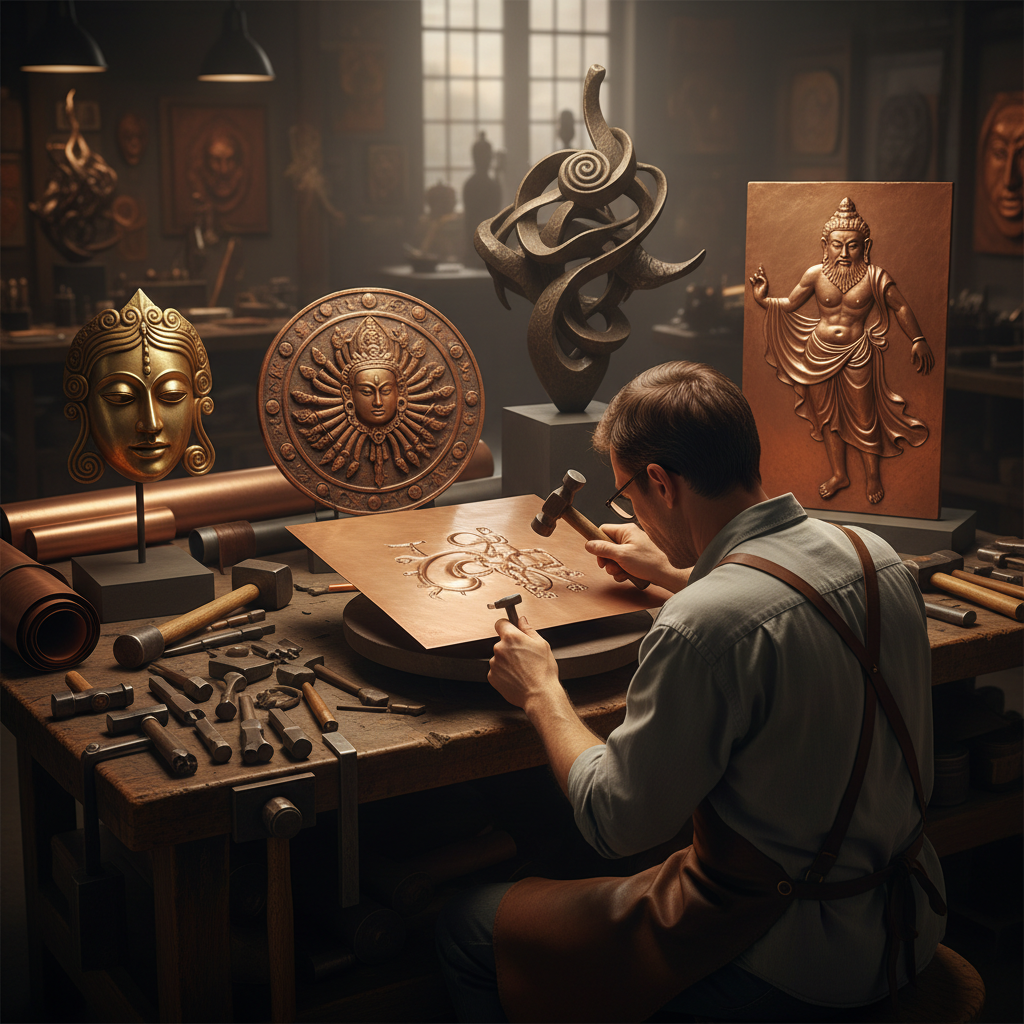
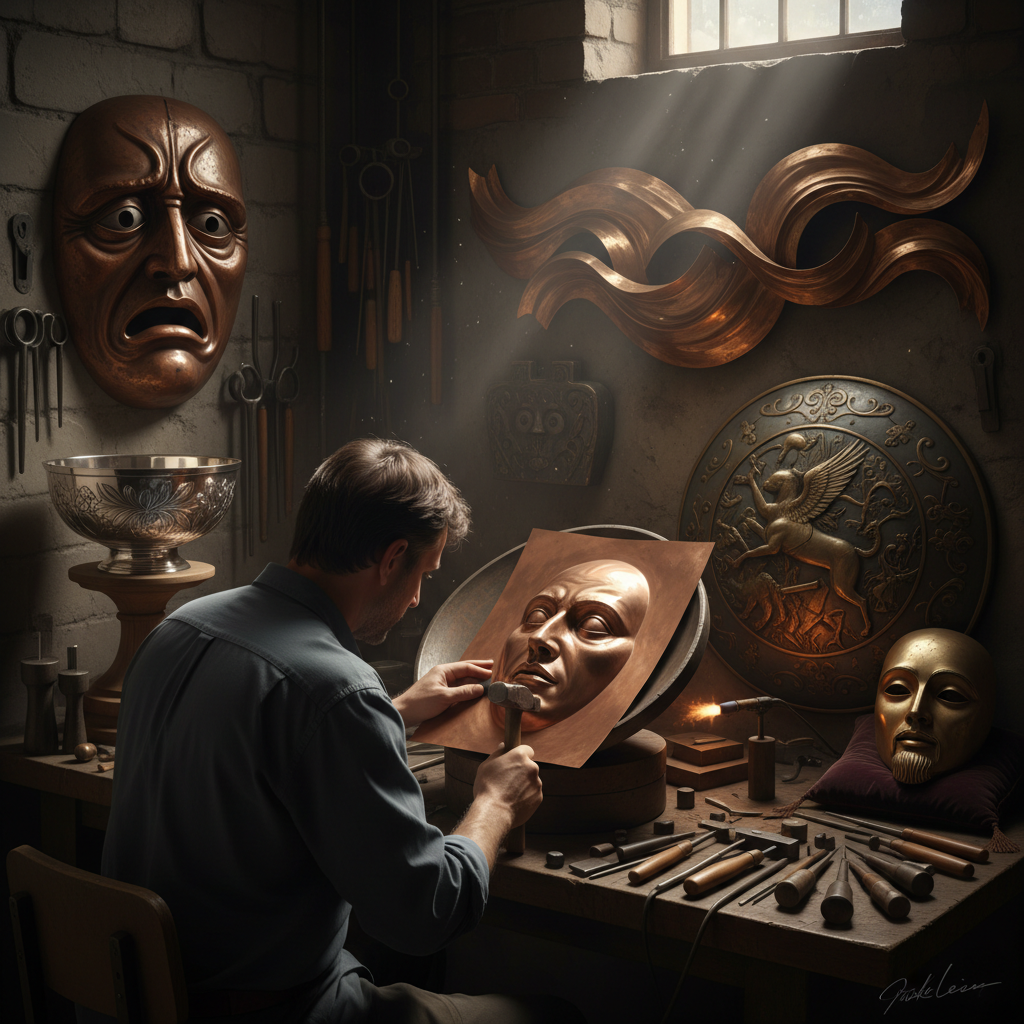
Add 3 art styles: Mosaic Gold, Repoussé, Champlevé - with AI concept images

diff --git a/11-millennium-nostalgia/repousse.md b/11-millennium-nostalgia/repousse.md
@@ -1,70 +1,70 @@
-# Repoussé 锤揲工艺
+# Repoussé 锤揲
 
-> "Repoussé is sculpture from the inside out — the metalsmith pushes form from behind, raising mountains and valleys in a thin sheet of metal with nothing but hammer and will." — Unknown
+> "Repoussé is drawing with a hammer — the metalsmith works from behind, pushing the sheet into swelling forms that catch the light like frozen waves, then refines from the front with chasing tools until every detail sings." — Unknown
 
 ## 概述
 
-锤揲工艺（Repoussé）是从金属板的背面用锤子和各种形状的冲头（punches）将金属向外推出，形成浮雕图案的金属成形技法。"Repoussé"源自法语"repousser"（推回）。与之配合的是"chasing"（正面追纹）——从金属板的正面用工具精修细节和轮廓。Repoussé和chasing通常结合使用：先从背面推出大的形体，再从正面追纹细节。这种技法可以在薄金属板上创造出极其精细的三维浮雕效果——从古代的黄金面具到自由女神像的铜皮，都是锤揲工艺的杰作。
+锤揲（Repoussé，法语意为"推回"）是从金属板的背面用锤子和各种形状的冲头（punches）将金属向外推出，形成凸起的浮雕图案的工艺。Repoussé通常与Chasing（錾刻，从正面精修细节）配合使用——先用Repoussé从背面推出大致形态，再用Chasing从正面添加细节和纹理。
 
-锤揲工艺的哲学在于：从内向外——不是从外部雕刻去除材料，而是从内部推出形体，让金属在锤击中获得生命。
+Repoussé是人类最古老的金属成型技法之一——不需要铸造或焊接，仅通过锤打就能将平面的金属板变成立体的浮雕或器皿。这种技法可以应用于各种延展性好的金属：金、银、铜、青铜、铁等。Repoussé的代表作品包括：自由女神像的铜皮外壳、古代金面具、装饰性盾牌、宗教器物等。
 
 ## 核心特征
 
 | 特征 | 描述 |
 |------|------|
-| 背面 | 从背面推出形体 |
-| 锤击 | 锤子和冲头成形 |
-| 浮雕 | 创造浮雕效果 |
-| 薄板 | 在薄金属板上操作 |
-| 追纹 | 正面追纹精修 |
-| 立体 | 三维的立体效果 |
+| 背面 | 从背面锤打推出 |
+| 浮雕 | 形成浮雕效果 |
+| 锤打 | 使用锤子和冲头 |
+| 古老 | 极其古老的技法 |
+| 立体 | 平面变立体 |
+| 配合 | 与Chasing配合 |
 
 ## 视觉特征
 
-- **浮雕**：精美的浮雕效果
-- **立体**：三维的形体感
-- **金属**：金属的光泽和质感
-- **流动**：流动的形态
-- **细节**：精细的表面细节
-- **力量**：锤击的力量感
+- **浮雕**：高浮雕的立体感
+- **流畅**：流畅的曲面
+- **光影**：丰富的光影变化
+- **金属**：金属的质感
+- **大型**：可制作大型作品
+- **动感**：动态的形态
 
 ## 代表作品
 
 | 作品 | 艺术家 | 年代 | 意义 |
 |------|--------|------|------|
-| *Mask of Agamemnon* | 匿名 | 公元前1550年 | 迈锡尼金面具 |
-| *Statue of Liberty skin* | Frédéric Bartholdi | 1886 | 自由女神像铜皮 |
-| *Benvenuto Cellini works* | Cellini | 16世纪 | 文艺复兴金属艺术 |
-| *Tibetan repoussé* | 匿名 | 传统 | 藏传佛教金属艺术 |
-| *Contemporary repoussé* | Various | 当代 | 当代锤揲艺术 |
+| *Mask of Agamemnon* | 匿名 | 公元前16世纪 | 阿伽门农金面具 |
+| *Statue of Liberty skin* | Bartholdi | 1886 | 自由女神像铜皮 |
+| *Gundestrup Cauldron* | 匿名 | 公元前1世纪 | 贡德斯特鲁普大锅 |
+| *Indian repoussé deities* | 匿名 | 传统 | 印度锤揲神像 |
+| *Contemporary repoussé art* | Various | 当代 | 当代锤揲艺术 |
 
 ## 历史时间线
 
 | 时期 | 事件 |
 |------|------|
-| 公元前3000年 | 美索不达米亚的早期锤揲 |
-| 古希腊 | 希腊金属浮雕 |
-| 古罗马 | 罗马银器锤揲 |
-| 中世纪 | 教堂金属装饰 |
-| 文艺复兴 | Cellini的金属艺术 |
-| 当代 | 当代锤揲工艺的复兴 |
+| 公元前3000年 | 最早的锤揲金属制品 |
+| 古埃及 | 锤揲金面具和器物 |
+| 古希腊 | 锤揲青铜盾牌和盔甲 |
+| 中世纪 | 锤揲宗教器物 |
+| 文艺复兴 | 锤揲装饰艺术的繁荣 |
+| 当代 | 锤揲作为当代金属艺术 |
 
 ## 中国语境
 
-锤揲工艺在中国有悠久的传统——中国古代的金银器制作大量使用锤揲技法。唐代的金银器（如何家村窖藏出土的金银器）展现了极高的锤揲工艺水平。藏传佛教的金属佛像和法器也广泛使用锤揲技法——西藏和尼泊尔的金属工匠用锤揲创造精美的佛像浮雕。中国的铜器制作传统中，"打铜"（锤击铜板成形）是重要的技法。当代中国的金属工艺家继续传承锤揲技法，将其应用于当代艺术创作和高端定制。
+锤揲在中国有着悠久的传统——中国古代的金银器制作中大量使用锤揲技法。中国的锤揲工艺被称为"锤鍱"或"打作"——从商周时期的青铜器到唐代的金银器，锤揲都是核心技法之一。中国传统的铜器、银器制作中，锤揲是基本功。当代中国的一些金属工艺大师仍在传承锤揲技法——如云南的银器锤揲、西藏的铜器锤揲等。一些地方的锤揲技艺被列为非物质文化遗产。
 
 ## AI生成概念图
 
-![Repoussé 锤揲工艺概念图](../assets/artworks/repousse/repousse-concept-01.png)
+![Repoussé 锤揲概念图](../assets/artworks/repousse/repousse-concept-01.png)
 
 ## 与其他风格的关系
 
-- **Chasing** → 追纹（配合技法）
-- **Metalwork** → 金属工艺
-- **Sculpture** → 雕塑
-- **Embossing** → 压花
+- **Chasing** → 錾刻
+- **Raising** → 起形
+- **Embossing** → 压印
+- **Metal Sculpture** → 金属雕塑
 - **Silversmithing** → 银器制作
-- **Relief** → 浮雕
+- **Coppersmithing** → 铜器制作
 
 ---
 

diff --git a/11-millennium-nostalgia/champleve.md b/11-millennium-nostalgia/champleve.md
@@ -1,71 +1,70 @@
-# Champlevé 凹雕珐琅
+# Champlevé 凹雕填珐琅
 
-> "Champlevé is sculpture in reverse — carving absence to be filled with color." — Unknown
+> "Champlevé is painting with fire in carved fields — the engraver cuts troughs into metal, fills them with powdered glass, and the kiln fuses color permanently into the body of the work." — Unknown
 
 ## 概述
 
-凹雕珐琅（Champlevé）是一种将金属表面挖出凹槽，然后填入珐琅釉料并烧制的装饰工艺。与掐丝珐琅（Cloisonné）用金属丝围出区域不同，凹雕珐琅直接在金属基底上雕刻或蚀刻出图案的凹陷部分，再填入彩色玻璃粉末烧制。这种技法在中世纪欧洲达到巅峰，特别是在法国利摩日和莱茵河流域，创造了大量宗教艺术杰作。
+凹雕填珐琅（Champlevé，法语意为"凸起的田野"）是一种珐琅工艺——在金属基体（通常是铜或青铜）上雕刻或蚀刻出凹槽，然后将珐琅粉（磨碎的彩色玻璃）填入凹槽中，经过高温烧制使珐琅熔融并与金属结合。冷却后，珐琅表面与金属表面齐平，形成色彩鲜艳的图案。
 
-凹雕珐琅的独特之处在于：金属本身既是结构也是图案——未被挖去的部分形成了设计的线条和边界。
+Champlevé与Cloisonné（掐丝珐琅/景泰蓝）的区别在于：Cloisonné用金属丝围出图案区域，而Champlevé直接在金属基体上挖出凹槽。Champlevé的金属线条（未被挖去的部分）通常比Cloisonné的金属丝更粗、更有力。Champlevé在中世纪欧洲极为流行——特别是在利摩日（Limoges）地区，产生了大量精美的宗教器物。
 
 ## 核心特征
 
 | 特征 | 描述 |
 |------|------|
-| 凹雕 | 在金属上雕出凹槽 |
-| 填充 | 凹槽中填入珐琅 |
-| 金属线 | 保留的金属形成线条 |
-| 烧制 | 高温烧制固化 |
-| 厚重 | 比掐丝珐琅更厚重 |
-| 耐久 | 极其耐久的装饰 |
+| 凹槽 | 在金属上雕刻凹槽 |
+| 填充 | 填入珐琅粉 |
+| 烧制 | 高温烧制融合 |
+| 色彩 | 鲜艳的珐琅色彩 |
+| 耐久 | 极其耐久 |
+| 中世纪 | 中世纪欧洲的代表工艺 |
 
 ## 视觉特征
 
-- **金属线**：宽厚的金属保留线条
-- **色块**：大面积的珐琅色块
-- **厚重**：厚实的金属质感
-- **对比**：金属与珐琅的对比
-- **平面**：打磨后的平滑表面
-- **中世纪**：典型的中世纪美学
+- **色彩**：鲜艳的珐琅色彩
+- **金属**：金属线条的框架
+- **平滑**：珐琅与金属齐平
+- **对比**：色彩与金属的对比
+- **图案**：几何或图形图案
+- **光泽**：珐琅的玻璃光泽
 
 ## 代表作品
 
 | 作品 | 艺术家 | 年代 | 意义 |
 |------|--------|------|------|
-| *Stavelot Triptych* | 匿名 | 约1156 | 莫桑河谷杰作 |
-| *Limoges reliquaries* | 匿名 | 12-13世纪 | 利摩日凹雕珐琅 |
-| *Becket Casket* | 匿名 | 约1180 | 中世纪珐琅圣物箱 |
-| *Rhine Valley works* | 匿名 | 12世纪 | 莱茵河谷传统 |
-| *Celtic champlevé* | 匿名 | 罗马-凯尔特 | 早期凯尔特珐琅 |
+| *Limoges enamels* | 利摩日工匠 | 12-13世纪 | 利摩日珐琅 |
+| *Stavelot Triptych* | 匿名 | 1156-58 | 斯塔夫洛三联画 |
+| *Celtic champlevé brooches* | 匿名 | 中世纪 | 凯尔特珐琅胸针 |
+| *Romanesque reliquaries* | 匿名 | 罗马式时期 | 罗马式圣物箱 |
+| *Contemporary champlevé* | Various | 当代 | 当代凹雕填珐琅 |
 
 ## 历史时间线
 
 | 时期 | 事件 |
 |------|------|
-| 凯尔特时期 | 早期的凹雕珐琅 |
-| 罗马时期 | 罗马-不列颠的珐琅 |
-| 11-13世纪 | 中世纪欧洲的黄金时代 |
-| 12世纪 | 利摩日成为主要中心 |
-| 13世纪后 | 逐渐被掐丝珐琅取代 |
-| 19世纪 | 哥特复兴中的重新关注 |
-| 当代 | 作为传统工艺的传承 |
+| 古代 | 凯尔特人的早期Champlevé |
+| 罗马时期 | 罗马帝国的Champlevé |
+| 中世纪 | 利摩日Champlevé的鼎盛 |
+| 12-13世纪 | 莱茵河流域的Champlevé |
+| 文艺复兴 | 绘画珐琅取代Champlevé |
+| 当代 | Champlevé在当代首饰中的复兴 |
 
 ## 中国语境
 
-凹雕珐琅在中国称为"錾胎珐琅"——与景泰蓝（掐丝珐琅）并列为中国珐琅工艺的主要类型。錾胎珐琅在清代宫廷中有一定发展，但不如景泰蓝普及。中国的錾胎珐琅多用于宫廷器物，工艺精湛但存世量较少。当代中国的珐琅工艺师仍在传承这一技法。
+凹雕填珐琅在中国的珐琅工艺体系中有其对应——中国传统的"錾胎珐琅"与Champlevé技法相同。中国的錾胎珐琅历史悠久，但不如景泰蓝（掐丝珐琅）知名。中国的一些传统金属工艺中使用类似Champlevé的技法——在铜器上錾刻凹槽后填入珐琅。当代中国的珐琅艺术家和首饰设计师也使用Champlevé技法创作。中国的珐琅工艺教育中，Champlevé是重要的教学内容之一。
 
 ## AI生成概念图
 
-![Champlevé 凹雕珐琅概念图](../assets/artworks/champleve/champleve-concept-01.png)
+![Champlevé 凹雕填珐琅概念图](../assets/artworks/champleve/champleve-concept-01.png)
 
 ## 与其他风格的关系
 
-- **Enamel** → 珐琅工艺的一种技法
-- **Cloisonné** → 掐丝珐琅是对应技法
+- **Cloisonné** → 掐丝珐琅/景泰蓝
 - **Plique-à-jour** → 透光珐琅
-- **Medieval Art** → 中世纪宗教艺术
-- **Metalwork** → 金属雕刻工艺
-- **Celtic Art** → 凯尔特装饰传统
+- **Basse-taille** → 浅浮雕珐琅
+- **Enameling** → 珐琅工艺
+- **Metal Engraving** → 金属雕刻
+- **Limoges Enamel** → 利摩日珐琅
 
 ---
 

diff --git a/11-millennium-nostalgia/mosaic-gold.md b/11-millennium-nostalgia/mosaic-gold.md
@@ -1,0 +1,71 @@
+# Mosaic Gold 金色马赛克
+
+> "Mosaic gold is illusion perfected — tin disulfide crystals shimmer with the warmth of true gold, offering artists and craftsmen a golden glow without the golden price." — Unknown
+
+## 概述
+
+金色马赛克（Mosaic Gold）有两层含义：一是指二硫化锡（tin disulfide, SnS₂）——一种金黄色的晶体粉末，历史上被用作金粉的廉价替代品来装饰书籍、画框和工艺品；二是指使用金色材料（金箔、金色玻璃片、金色石材等）制作的马赛克镶嵌艺术。
+
+作为材料的Mosaic Gold（二硫化锡）在中世纪和文艺复兴时期被广泛使用——它被称为"aurum musivum"（马赛克金），因为它最初被用于装饰马赛克作品。作为艺术形式的金色马赛克则是拜占庭艺术的标志——拜占庭教堂中大量使用金色玻璃马赛克（gold tesserae）来创造神圣的金色背景，象征天堂的光辉。
+
+## 核心特征
+
+| 特征 | 描述 |
+|------|------|
+| 金色 | 金色的视觉效果 |
+| 替代 | 金的廉价替代 |
+| 马赛克 | 镶嵌艺术形式 |
+| 拜占庭 | 拜占庭艺术标志 |
+| 光辉 | 神圣的光辉效果 |
+| 历史 | 悠久的历史 |
+
+## 视觉特征
+
+- **金色**：温暖的金色光泽
+- **闪烁**：闪烁的光效
+- **镶嵌**：马赛克的镶嵌感
+- **神圣**：神圣庄严的氛围
+- **反射**：不同角度的反射
+- **华丽**：极其华丽的效果
+
+## 代表作品
+
+| 作品 | 艺术家 | 年代 | 意义 |
+|------|--------|------|------|
+| *Hagia Sophia mosaics* | 匿名 | 6-14世纪 | 圣索菲亚大教堂金色马赛克 |
+| *Ravenna mosaics* | 匿名 | 5-6世纪 | 拉文纳金色马赛克 |
+| *St. Mark's Basilica* | 匿名 | 11-16世纪 | 圣马可大教堂 |
+| *Medieval manuscripts* | 匿名 | 中世纪 | 中世纪手抄本装饰 |
+| *Gustav Klimt mosaics* | Klimt | 1900s | 克里姆特马赛克 |
+
+## 历史时间线
+
+| 时期 | 事件 |
+|------|------|
+| 古罗马 | 金色马赛克的早期使用 |
+| 拜占庭 | 金色马赛克的鼎盛 |
+| 中世纪 | 二硫化锡作为金粉替代 |
+| 文艺复兴 | Mosaic Gold在装饰中的应用 |
+| 19世纪 | 拜占庭风格的复兴 |
+| 当代 | 金色马赛克在当代建筑中的应用 |
+
+## 中国语境
+
+金色马赛克在中国主要体现在两个方面：一是中国传统建筑中的金色装饰——如故宫的琉璃瓦、寺庙的金色装饰等，虽然不是严格意义上的马赛克，但有类似的金色镶嵌效果；二是当代中国的建筑和室内设计中，金色马赛克瓷砖被广泛用于高端酒店、会所和住宅的装饰。中国的一些当代艺术家也使用金色马赛克作为创作媒介。
+
+## AI生成概念图
+
+![Mosaic Gold 金色马赛克概念图](../assets/artworks/mosaic-gold/mosaic-gold-concept-01.png)
+
+## 与其他风格的关系
+
+- **Mosaic** → 马赛克
+- **Gold Leaf** → 金箔
+- **Gilding** → 鎏金
+- **Byzantine Art** → 拜占庭艺术
+- **Tessellation** → 镶嵌
+- **Icon Painting** → 圣像画
+
+---
+
+*浮光艺志 | Chronicle of Artistry*
